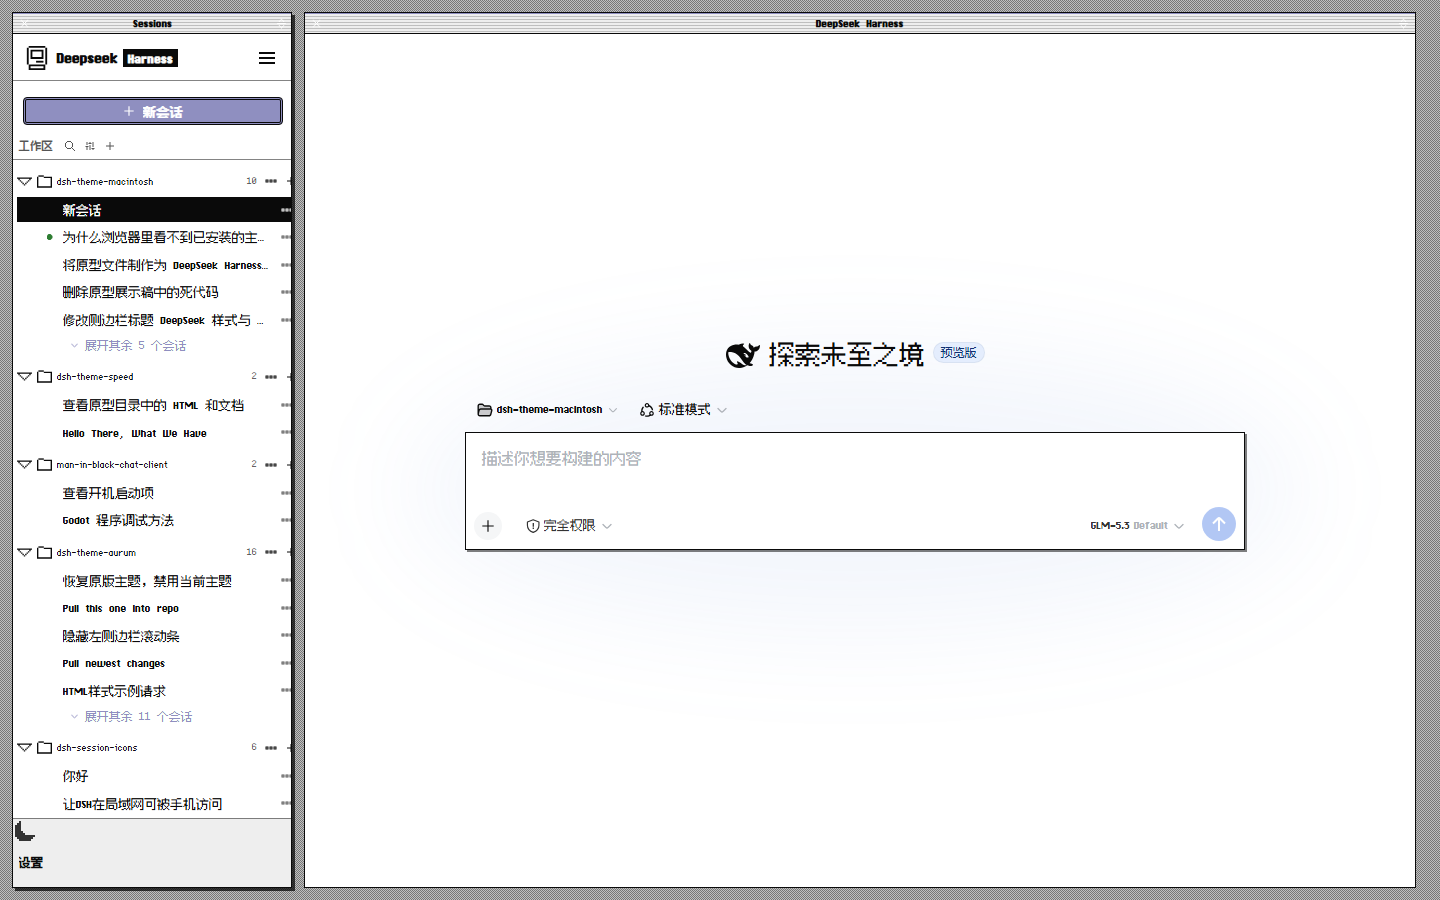
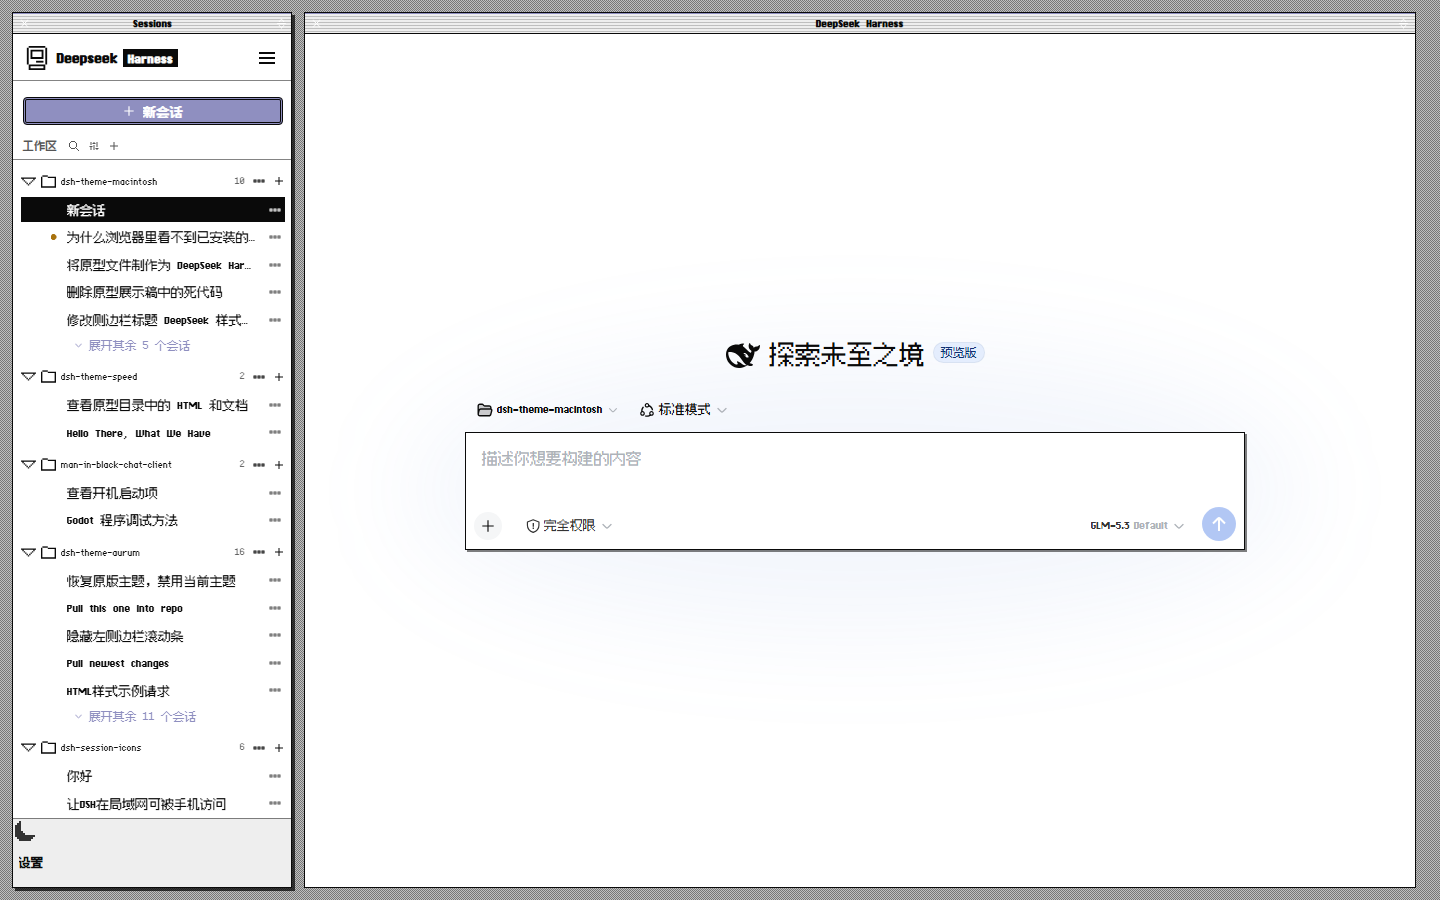
fix(mcx-finder): 三项修复——①flash 遮罩换原型 .mcfx 语义（::after z-index:3 全覆盖层，修白闪下图标/文字露出；ghost=边框透明+子内容透明）②拍序对齐原型 interactive §909（拍0 ghost+show 瞬换→拍1 flash→拍2 撤，各 100ms 走 CLOCK 栅格；测试同步更新）③regionArea 被 official quietBa 变体撑宽 16px 导致右缘图标溢出侧栏——width:auto/align-self:stretch/margin:0 强制归位（探针溢出归零）

diff --git a/client.js b/client.js
@@ -78,15 +78,19 @@ html body, html body[data-ds-dark-theme]{
   --dsw-specific-sidebar-fill:var(--mc-rail-1);
   --dsw-font-family:var(--font-ui);
 }
-/* mcfx 闪烁类（照《笔记》§0.3）：只管遮罩本体，几何（定位/尺寸）由消费方给 */
-.mc-ghost{opacity:0;pointer-events:none}
-.mc-flash{background:#fff;pointer-events:none;position:relative}
-.mc-flash::after{ /* 扫描线：单条 1px 硬边，随遮罩全宽 */
-  content:'';position:absolute;left:0;right:0;top:0;height:1px;
-  background:rgba(0,0,0,.35);
-}
-html[data-theme="light"] .mc-flash{background:#0a0a0a}
-html[data-theme="light"] .mc-flash::after{background:rgba(255,255,255,.35)}
+/* mcfx 闪烁类（照原型 interactive §172-183 逐行）：flash = ::after 全覆盖遮罩（z-index:3 盖住
+   子内容——元素自身 background 会被子元素压住导致图标/文字露出的 bug 即由此起）；ghost = 边框透明
+   + 子内容透明（保留盒位）。使用方须同时挂 'mcfx' 类（flashIn/flashOut/accToggle 已自动加）。 */
+.mcfx{position:relative}
+.mcfx::after{content:'';position:absolute;inset:0;pointer-events:none;opacity:0;z-index:3;
+  background:#fff;
+  background-image:repeating-linear-gradient(0deg,transparent 0 2px,rgba(0,0,0,.06) 2px 3px)}
+.mcfx.mc-flash::after{opacity:1}
+.mcfx.mc-ghost{border-color:transparent}
+.mcfx.mc-ghost>*{opacity:0}
+html[data-theme="light"] .mcfx::after{
+  background:#000;
+  background-image:repeating-linear-gradient(0deg,transparent 0 2px,rgba(255,255,255,.07) 2px 3px)}
 /* ===== §4.1 补全：画布 / selection / focus / 滚动条 / 动画豁免 ===== */
 body{background-color:var(--mc-bg);
   background-image:var(--mc-desktop-pattern);
@@ -247,13 +251,12 @@ function esc(s) {
 function flashIn(el, show) {
   try {
     if (!el || !el.isConnected) return;
-    el.classList.add('mc-ghost');
+    el.classList.add('mcfx', 'mc-ghost');
+    show(); // 拍0：内容在 ghost 遮罩下瞬换（原型 §910-912）
   } catch (e) { /* 单元素失败不拖垮调用方 */ }
   mcfxSchedule(() => {
     try {
       if (!el || !el.isConnected) return;
-      show();
-      el.classList.remove('mc-ghost');
       el.classList.add('mc-flash');
     } catch (e) { /* 同上 */ }
     mcfxSchedule(() => {
@@ -270,7 +273,7 @@ function flashIn(el, show) {
 function flashOut(el, hide) {
   try {
     if (!el || !el.isConnected) return;
-    el.classList.add('mc-flash');
+    el.classList.add('mcfx', 'mc-flash');
   } catch (e) { /* 单元素失败不拖垮调用方 */ }
   mcfxSchedule(() => {
     try {
@@ -289,7 +292,7 @@ function accToggle(card, fn) {
     if (!card || !card.isConnected) return;
     if (card.dataset.busy) return; // 防重入
     card.dataset.busy = '1';
-    card.classList.add('mc-ghost');
+    card.classList.add('mcfx', 'mc-ghost');
   } catch (e) { return; }
   const done = () => { try { delete card.dataset.busy; } catch (e) { /* 忽略 */ } };
   mcfxSchedule(() => {
@@ -636,7 +639,7 @@ const McSidebar = {
     `${MC_MAP.sidebarNewSession}:active{background:var(--mc-border);color:var(--mc-surface);` +
       `box-shadow:inset 0 0 0 1px var(--mc-border),inset 0 0 0 2px var(--mc-surface)}`,
     // 工作区树容器 sb-tree：随根 padding 清零，内衬也清零（用户要求侧栏完全无 padding）
-    `${MC_MAP.sidebarRegion}{padding:0}`,
+    `${MC_MAP.sidebarRegion}{padding:0;min-width:0;overflow:hidden;width:auto;align-self:stretch;margin:0}`,
     // —— 像素图标替换（pixelarticons 24 栅格）：官方细轮廓 path 藏起，svg 本体 currentColor + 像素 mask 重绘 ——
     // 锚点 aria-label 为 zh i18n 文案（DRIFT-RISK：随语言/官方文案漂移，失配=回退官方轮廓图标，不破版）
     // :not([data-mc-finder]) —— McFinder 遮蔽成功时本区内容是自有组件（按钮带 data-mc-finder），

diff --git a/src/core/tokens.js b/src/core/tokens.js
@@ -63,15 +63,18 @@ html body, html body[data-ds-dark-theme]{
   --dsw-specific-sidebar-fill:var(--mc-rail-1);
   --dsw-font-family:var(--font-ui);
 }
-/* mcfx 闪烁类（照《笔记》§0.3）：只管遮罩本体，几何（定位/尺寸）由消费方给 */
-.mc-ghost{opacity:0;pointer-events:none}
-.mc-flash{background:#fff;pointer-events:none;position:relative}
-.mc-flash::after{ /* 扫描线：单条 1px 硬边，随遮罩全宽 */
-  content:'';position:absolute;left:0;right:0;top:0;height:1px;
-  background:rgba(0,0,0,.35);
-}
-html[data-theme="light"] .mc-flash{background:#0a0a0a}
-html[data-theme="light"] .mc-flash::after{background:rgba(255,255,255,.35)}
+/* mcfx 闪烁类（照原型 interactive §172-183 逐行）：flash = ::after 全覆盖遮罩（z-index:3）；
+   ghost = 边框透明 + 子内容透明。使用方须同时挂 'mcfx' 类（flashIn/flashOut/accToggle 自动加）。 */
+.mcfx{position:relative}
+.mcfx::after{content:'';position:absolute;inset:0;pointer-events:none;opacity:0;z-index:3;
+  background:#fff;
+  background-image:repeating-linear-gradient(0deg,transparent 0 2px,rgba(0,0,0,.06) 2px 3px)}
+.mcfx.mc-flash::after{opacity:1}
+.mcfx.mc-ghost{border-color:transparent}
+.mcfx.mc-ghost>*{opacity:0}
+html[data-theme="light"] .mcfx::after{
+  background:#000;
+  background-image:repeating-linear-gradient(0deg,transparent 0 2px,rgba(255,255,255,.07) 2px 3px)}
 /* ===== §4.1 补全：画布 / selection / focus / 滚动条 / 动画豁免 ===== */
 body{background-color:var(--mc-bg);
   background-image:var(--mc-desktop-pattern);

diff --git a/src/core/mcfx.js b/src/core/mcfx.js
@@ -17,13 +17,12 @@ function esc(s) {
 function flashIn(el, show) {
   try {
     if (!el || !el.isConnected) return;
-    el.classList.add('mc-ghost');
+    el.classList.add('mcfx', 'mc-ghost');
+    show(); // 拍0：内容在 ghost 遮罩下瞬换（原型 §910-912）
   } catch (e) { /* 单元素失败不拖垮调用方 */ }
   mcfxSchedule(() => {
     try {
       if (!el || !el.isConnected) return;
-      show();
-      el.classList.remove('mc-ghost');
       el.classList.add('mc-flash');
     } catch (e) { /* 同上 */ }
     mcfxSchedule(() => {
@@ -36,12 +35,12 @@ function flashIn(el, show) {
   }, 100);
 }
 
-// 退场镜像：flash → hide()（DOM 移除/隐藏）→ 撤两类
+// 退场镜像（原型 §919-927）：拍0 flash 白块 → 拍1 hide() + 撤类
 function flashOut(el, hide) {
   try {
     if (!el || !el.isConnected) return;
-    el.classList.add('mc-flash');
-  } catch (e) { /* 单元素失败不拖垮调用方 */ }
+    el.classList.add('mcfx', 'mc-flash');
+  } catch (e) { /* 同上 */ }
   mcfxSchedule(() => {
     try {
       if (!el || !el.isConnected) return;
@@ -59,7 +58,7 @@ function accToggle(card, fn) {
     if (!card || !card.isConnected) return;
     if (card.dataset.busy) return; // 防重入
     card.dataset.busy = '1';
-    card.classList.add('mc-ghost');
+    card.classList.add('mcfx', 'mc-ghost');
   } catch (e) { return; }
   const done = () => { try { delete card.dataset.busy; } catch (e) { /* 忽略 */ } };
   mcfxSchedule(() => {

diff --git a/src/chrome/sidebar.js b/src/chrome/sidebar.js
@@ -83,7 +83,7 @@ const McSidebar = {
     `${MC_MAP.sidebarNewSession}:active{background:var(--mc-border);color:var(--mc-surface);` +
       `box-shadow:inset 0 0 0 1px var(--mc-border),inset 0 0 0 2px var(--mc-surface)}`,
     // 工作区树容器 sb-tree：内衬 8px（§4 .sb-tree padding:8px）
-    `${MC_MAP.sidebarRegion}{padding:0}`,
+    `${MC_MAP.sidebarRegion}{padding:0;min-width:0;overflow:hidden;width:auto;align-self:stretch;margin:0}`,
     // —— 像素图标替换（pixelarticons 24 栅格）：官方细轮廓 path 藏起，svg 本体 currentColor + 像素 mask 重绘 ——
     // 锚点 aria-label 为 zh i18n 文案（DRIFT-RISK：随语言/官方文案漂移，失配=回退官方轮廓图标，不破版）
     // :not([data-mc-finder]) —— McFinder 遮蔽成功时本区内容是自有组件（按钮带 data-mc-finder），
